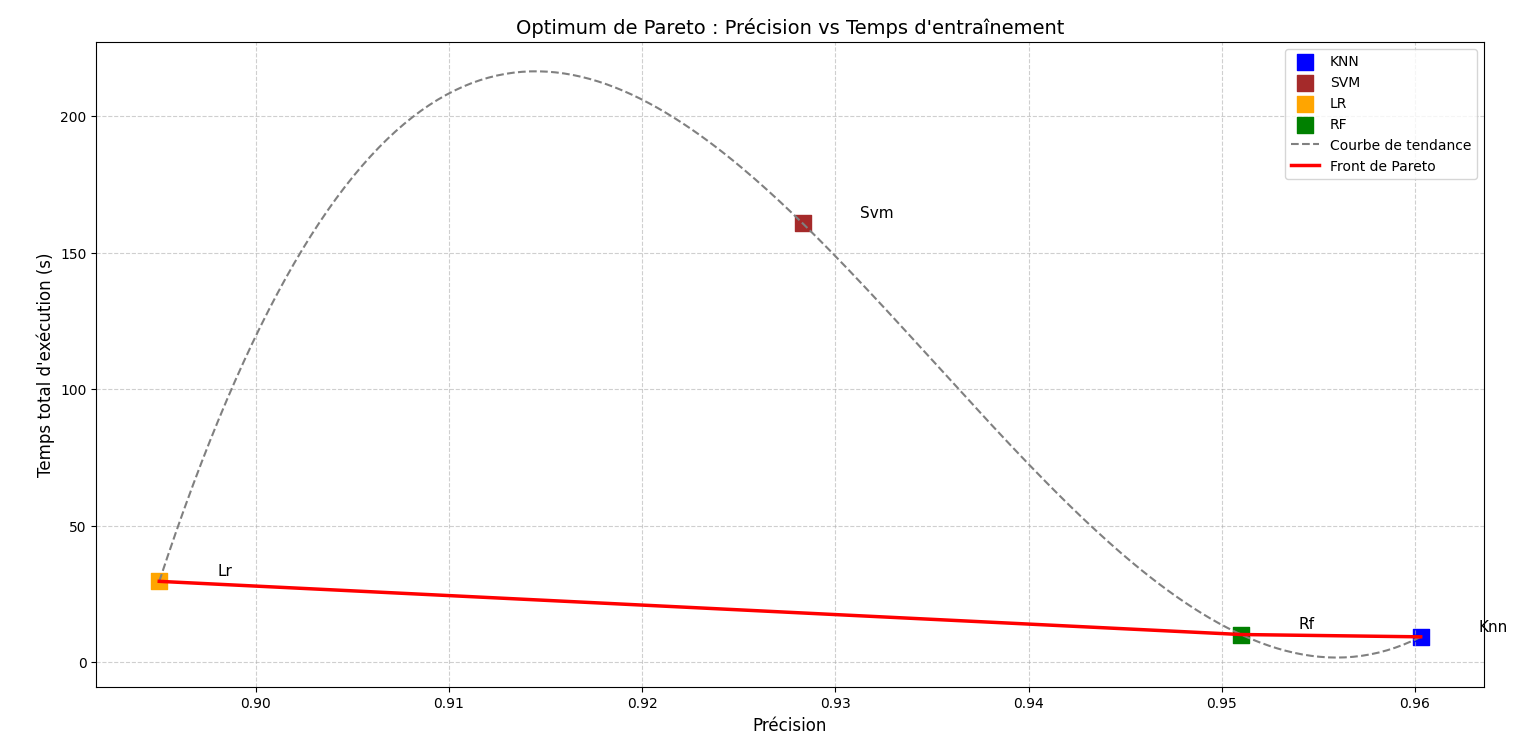
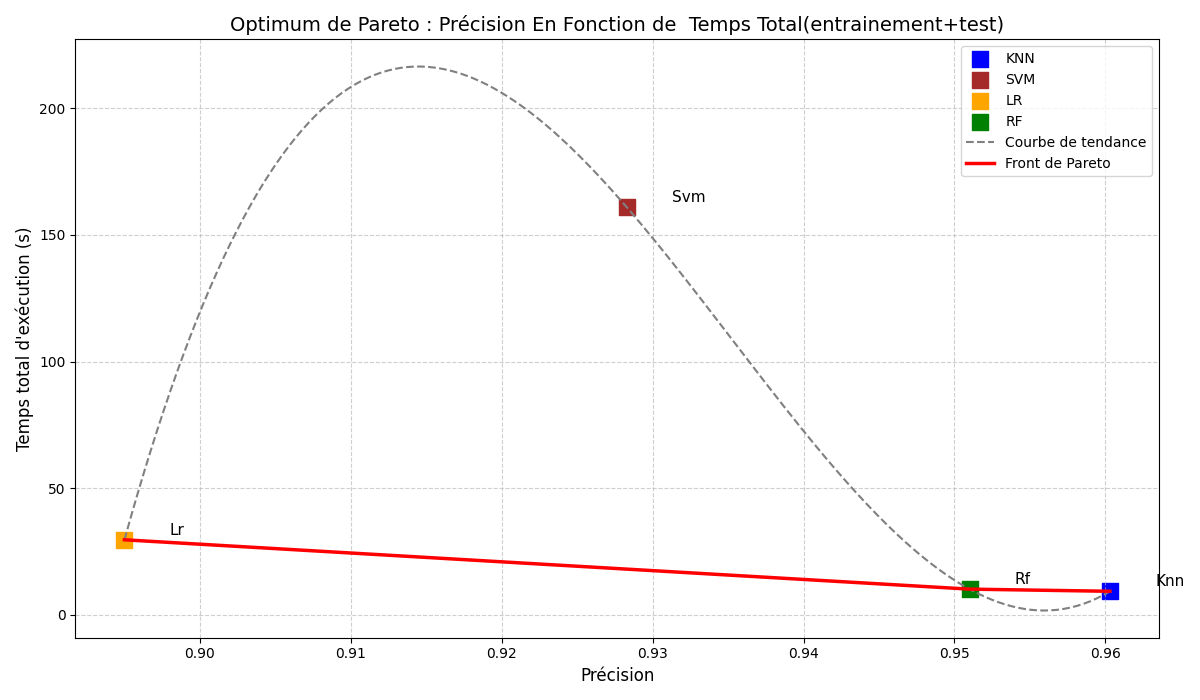
visualisation et analyse

diff --git a/visualisation_donnnes_et_annalyse/optimum_pareto.py b/visualisation_donnnes_et_annalyse/optimum_pareto.py
@@ -62,7 +62,7 @@ ax.plot(precisions[pareto_idx], temps_total[pareto_idx], color='red', linewidth=
 
 ax.set_xlabel("Précision", fontsize=12)
 ax.set_ylabel("Temps total d'exécution (s)", fontsize=12)
-ax.set_title("Optimum de Pareto : Précision vs Temps d'entraînement", fontsize=14)
+ax.set_title("Optimum de Pareto : Précision En Fonction de  Temps Total(entrainement+test)", fontsize=14)
 ax.grid(True, linestyle='--', alpha=0.6)
 ax.legend()
 plt.tight_layout()
